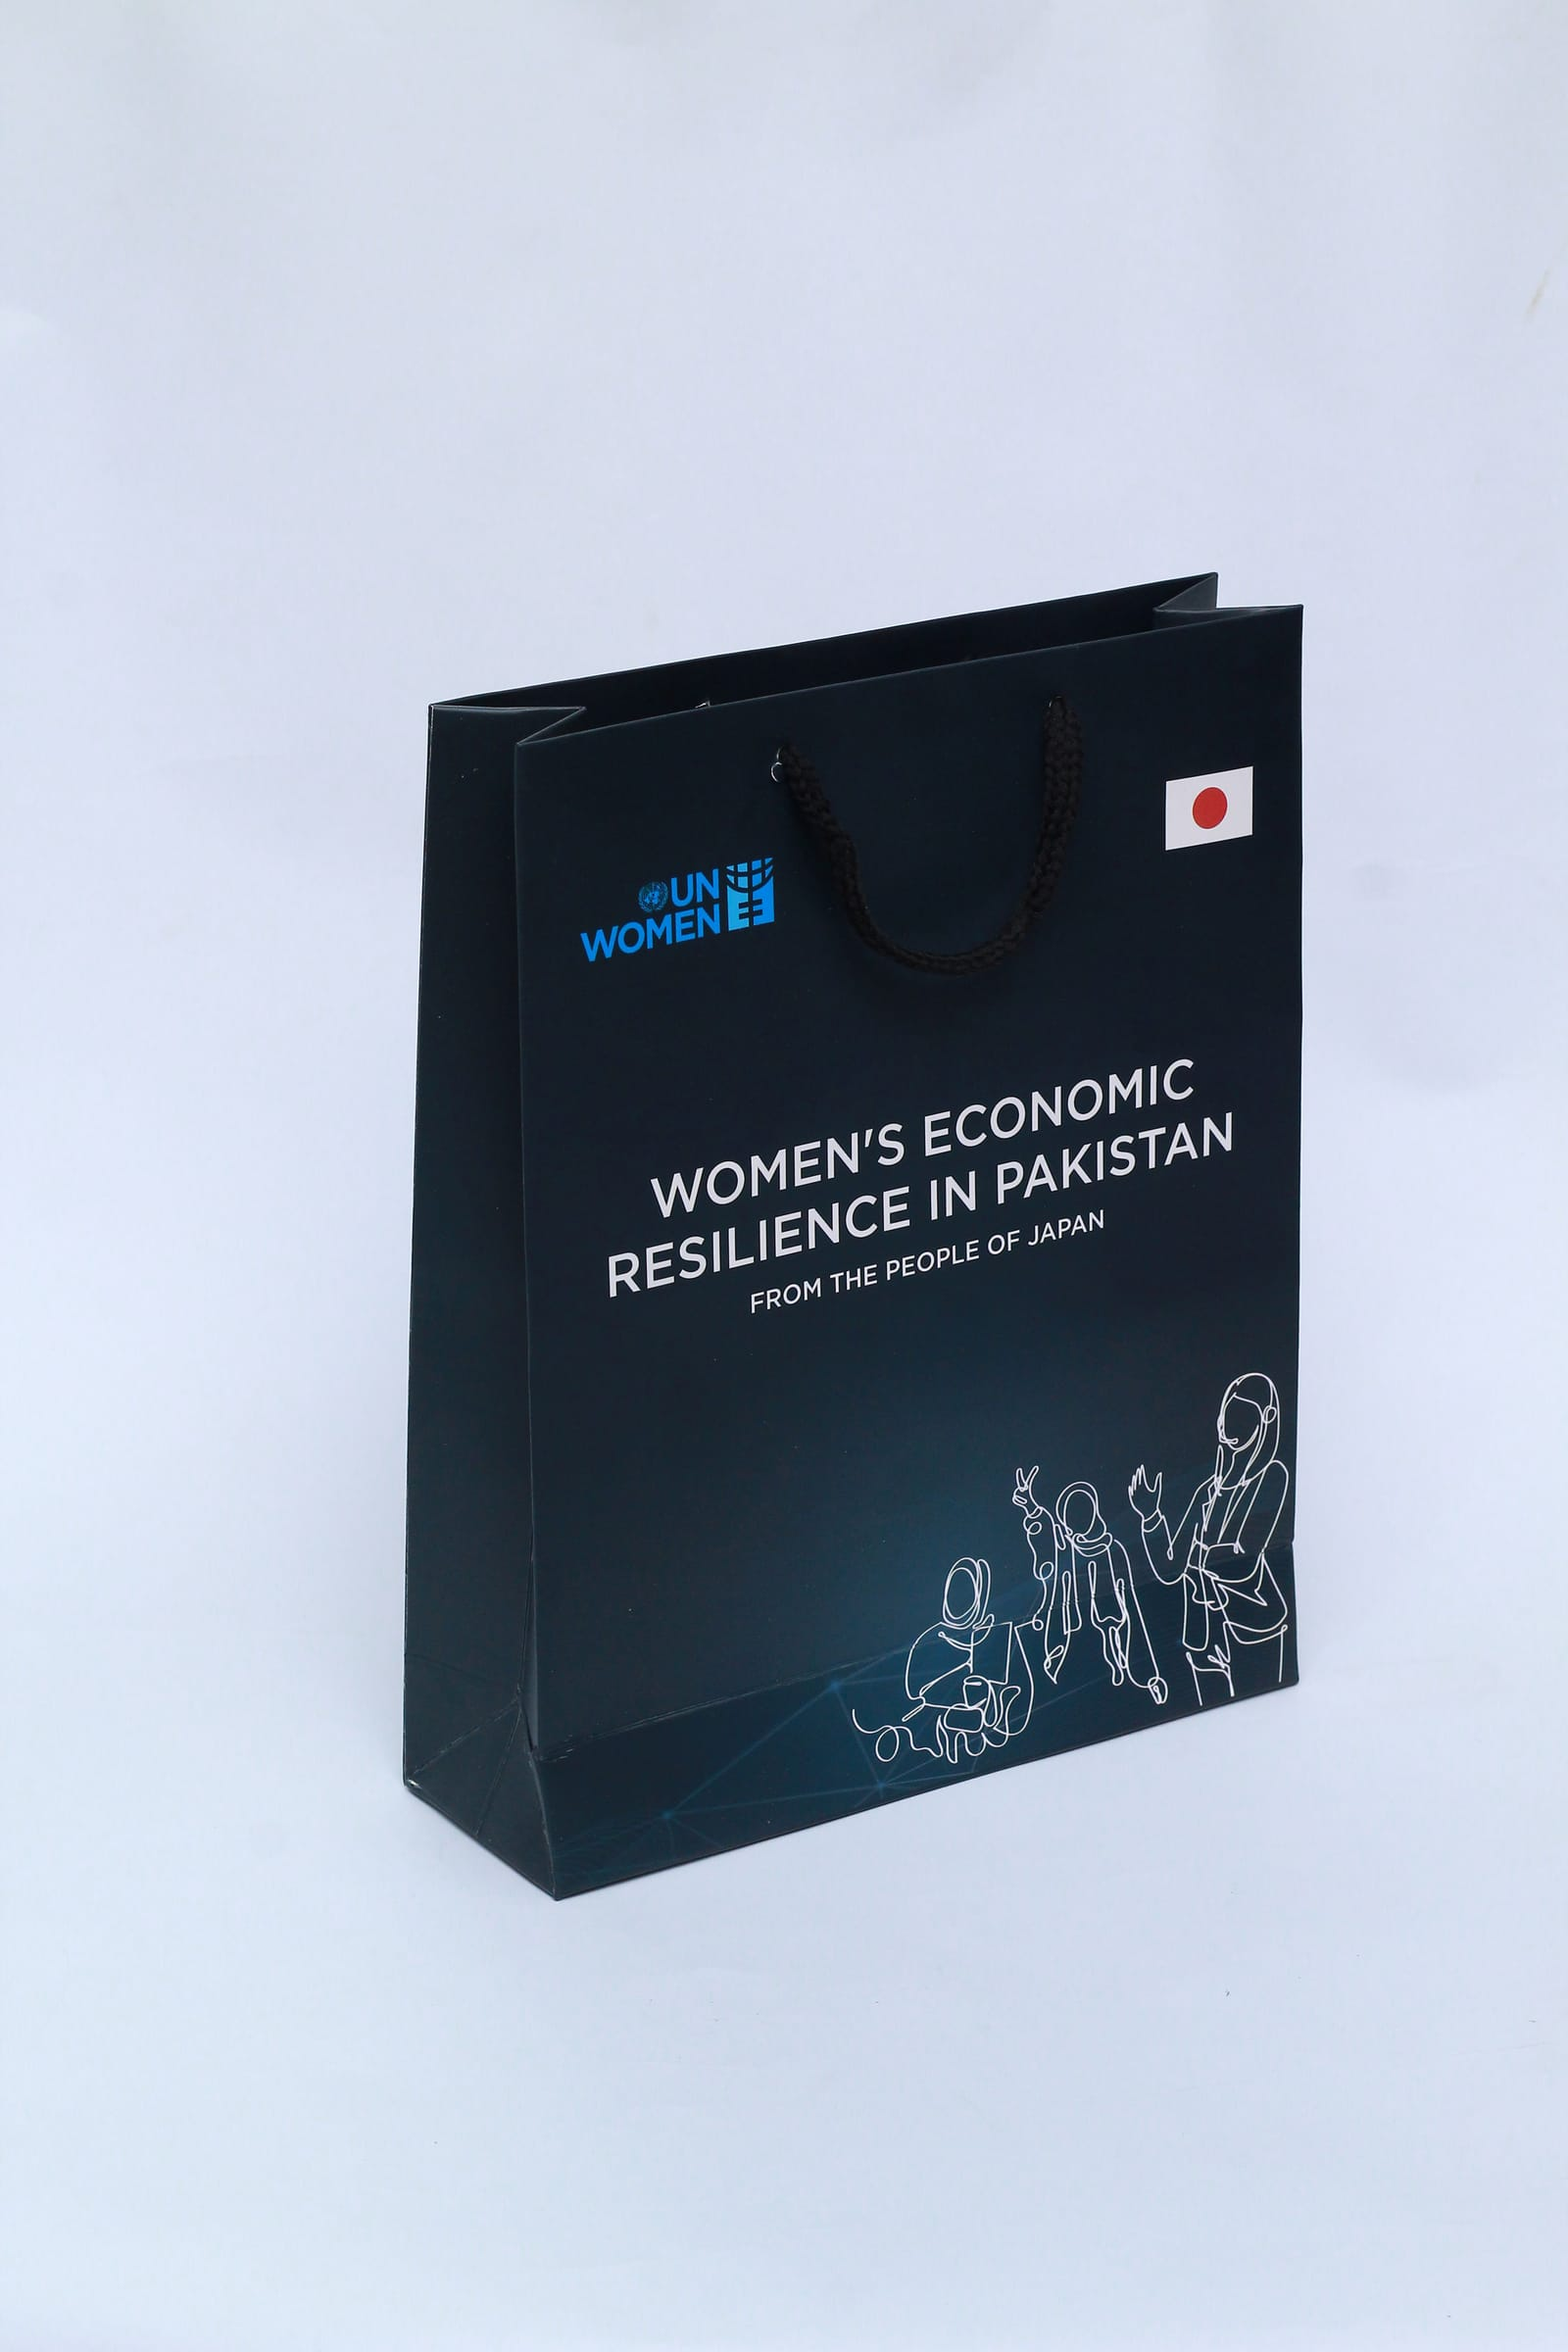
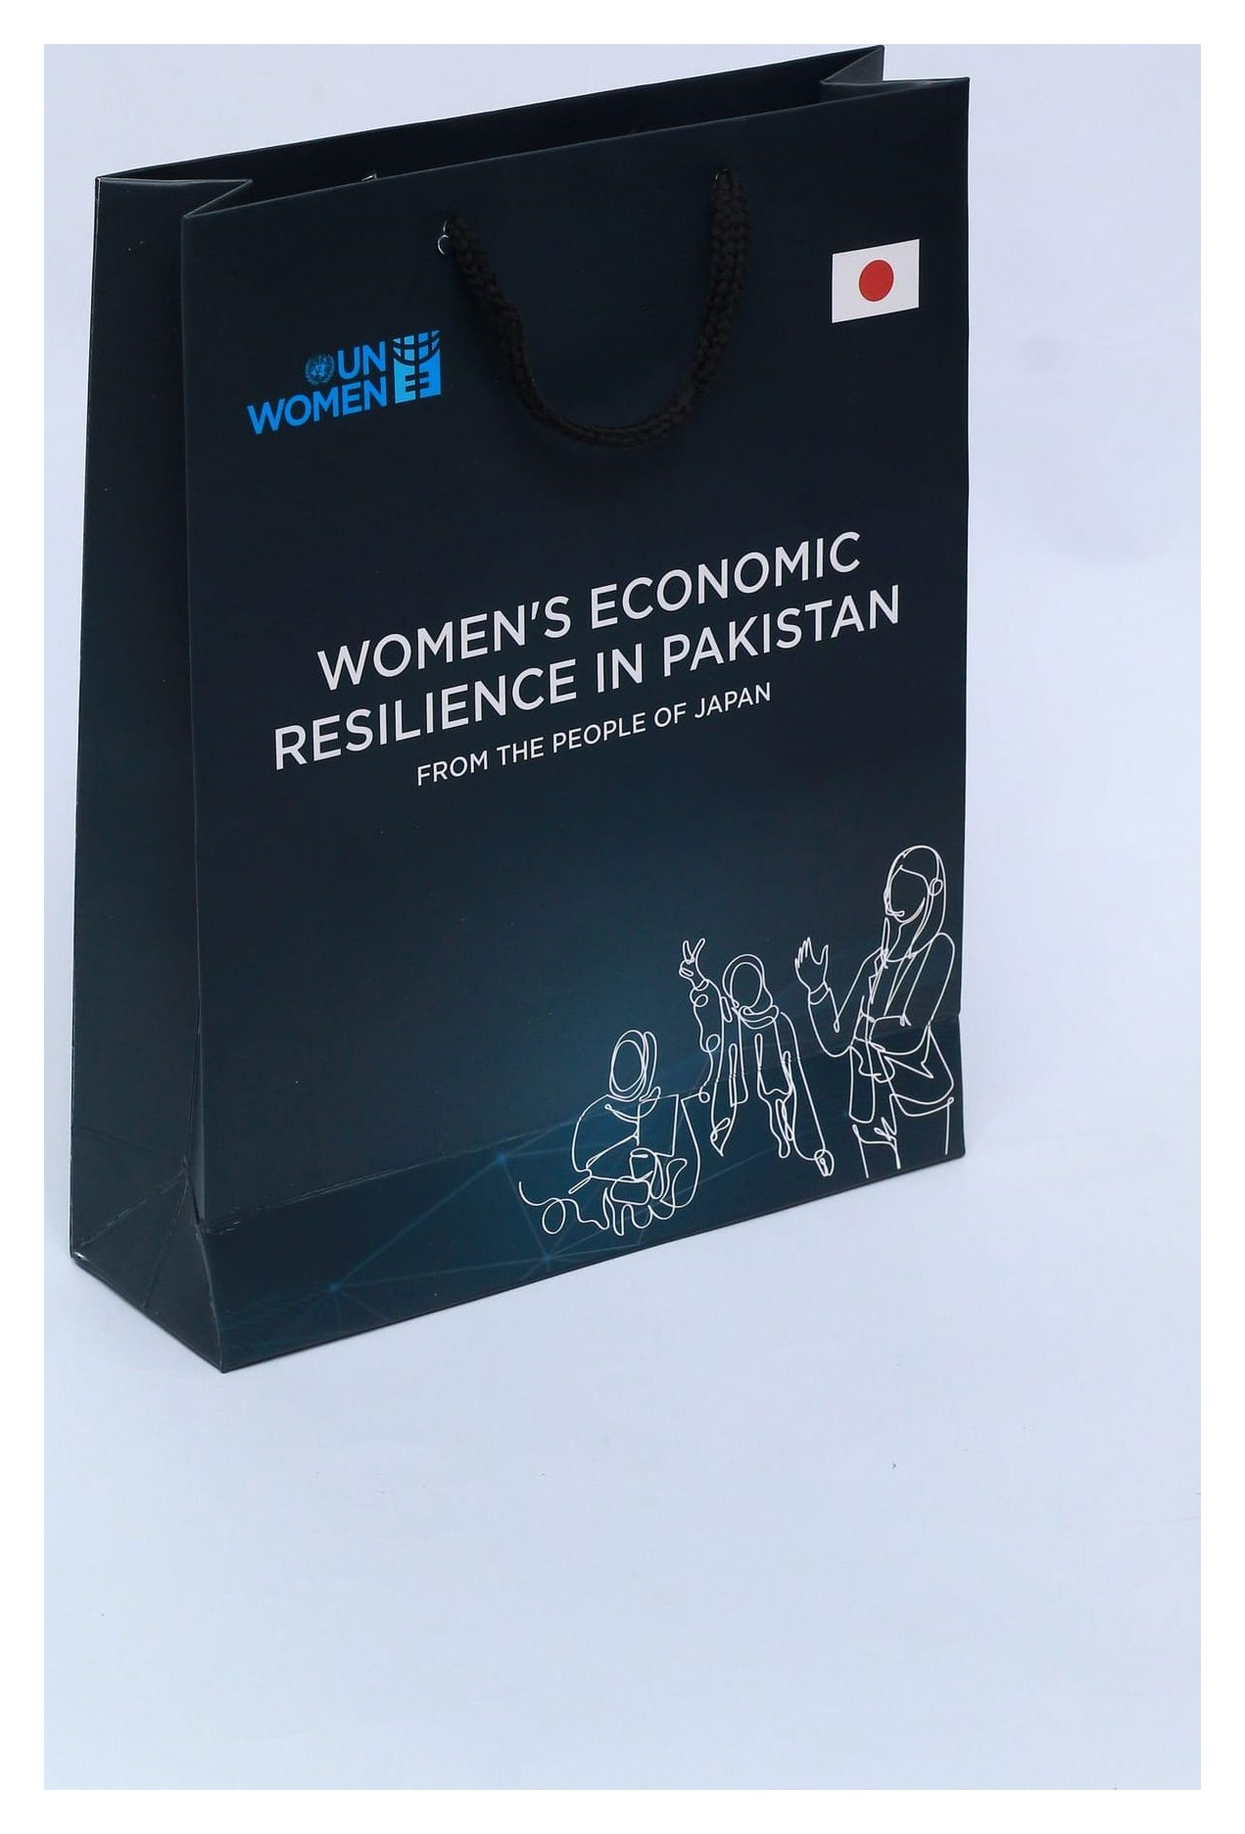
Rebrand bags to 'Custom Bags' and refresh product/industry visuals
- Rename 'Custom Paper Bags' to 'Custom Bags' across the site (name, headings, SEO, blog), keeping the /custom-paper-bags slug
- Change homepage hero headline to 'Custom Packaging'
- Redesign industry tiles as colorful animated circular tiles (new industry-tile.tsx)
- Add fit (cover/contain) option to ProductGallery
- Show the full bag image on the bags detail page; crop bag product photos to fill their frame

diff --git a/src/components/industry-tile.tsx b/src/components/industry-tile.tsx
@@ -1,0 +1,111 @@
+"use client";
+
+import Link from "next/link";
+import Image from "next/image";
+import { motion } from "framer-motion";
+import {
+  ArrowRight,
+  Sparkles,
+  Cookie,
+  Shirt,
+  ShoppingBag,
+  Gift,
+  Store,
+  type LucideIcon,
+} from "lucide-react";
+import type { IndustryPage } from "@/content/types";
+
+const ease = [0.22, 1, 0.36, 1] as const;
+
+// A distinct sign/icon per industry, shown on the colored badge.
+const iconBySlug: Record<string, LucideIcon> = {
+  "custom-cosmetic-packaging": Sparkles,
+  "custom-food-packaging": Cookie,
+  "custom-fashion-packaging": Shirt,
+  "custom-ecommerce-packaging": ShoppingBag,
+  "custom-gift-packaging": Gift,
+  "custom-retail-packaging": Store,
+};
+
+export function IndustryTile({ industry }: { industry: IndustryPage }) {
+  const Icon = iconBySlug[industry.slug] ?? Sparkles;
+  const accent = industry.accent;
+
+  return (
+    <motion.div
+      className="h-full"
+      initial="rest"
+      animate="rest"
+      whileHover="hover"
+    >
+      <Link
+        href={`/${industry.slug}`}
+        className="group relative flex h-full flex-col items-center overflow-hidden rounded-3xl border bg-card p-7 text-center shadow-sm transition-shadow duration-300 hover:shadow-xl hover:shadow-black/5"
+        style={{
+          background: `radial-gradient(135% 90% at 50% 0%, ${accent}1a 0%, transparent 62%)`,
+        }}
+      >
+        {/* soft colored glow behind the circle */}
+        <span
+          aria-hidden
+          className="pointer-events-none absolute -top-12 left-1/2 h-44 w-44 -translate-x-1/2 rounded-full opacity-35 blur-3xl transition-opacity duration-300 group-hover:opacity-60"
+          style={{ backgroundColor: accent }}
+        />
+
+        {/* circular image + rotating color ring + sign badge */}
+        <div className="relative h-28 w-28">
+          {/* continuously rotating colorful ring */}
+          <motion.span
+            aria-hidden
+            className="absolute inset-0 rounded-full"
+            style={{
+              background: `conic-gradient(from 0deg, ${accent}, ${accent}00 45%, ${accent}00 55%, ${accent})`,
+            }}
+            animate={{ rotate: 360 }}
+            transition={{ duration: 14, repeat: Infinity, ease: "linear" }}
+          />
+
+          {/* image disc */}
+          <motion.div
+            className="absolute inset-[5px] overflow-hidden rounded-full border-4 border-card bg-secondary"
+            variants={{ rest: { scale: 1 }, hover: { scale: 1.07 } }}
+            transition={{ duration: 0.4, ease }}
+          >
+            <Image
+              src={industry.heroImage}
+              alt={industry.label}
+              fill
+              sizes="120px"
+              className="object-cover transition-transform duration-500 group-hover:scale-110"
+            />
+          </motion.div>
+
+          {/* floating sign/icon badge */}
+          <motion.span
+            className="absolute -bottom-1 -right-1 grid h-11 w-11 place-items-center rounded-full text-white shadow-lg ring-4 ring-card"
+            style={{ backgroundColor: accent }}
+            variants={{
+              rest: { y: 0, scale: 1, rotate: 0 },
+              hover: { y: -3, scale: 1.15, rotate: -8 },
+            }}
+            transition={{ duration: 0.35, ease }}
+          >
+            <Icon className="h-5 w-5" />
+          </motion.span>
+        </div>
+
+        <h3 className="mt-6 font-[family-name:var(--font-heading)] text-lg font-bold">
+          {industry.label}
+        </h3>
+        <p className="mt-2 flex-1 text-sm text-muted-foreground">{industry.audience}</p>
+
+        <span
+          className="mt-5 inline-flex items-center gap-1 text-sm font-semibold transition-all duration-300 group-hover:gap-2"
+          style={{ color: accent }}
+        >
+          Explore <ArrowRight className="h-4 w-4" />
+        </span>
+      </Link>
+    </motion.div>
+  );
+}

diff --git a/src/components/cards.tsx b/src/components/cards.tsx
@@ -3,7 +3,7 @@ import { ArrowRight } from "lucide-react";
 import { Badge } from "@/components/ui/badge";
 import { ProductGallery } from "@/components/product-gallery";
 import { formatPKR } from "@/lib/format";
-import type { PackagingType, IndustryPage, Project } from "@/content/types";
+import type { PackagingType, Project } from "@/content/types";
 
 export function PackagingTypeCard({ type }: { type: PackagingType }) {
   const gallery =
@@ -17,7 +17,9 @@ export function PackagingTypeCard({ type }: { type: PackagingType }) {
       <ProductGallery
         images={gallery}
         alt={type.name}
-        className="rounded-none border-0"
+        fit="cover"
+        aspect="aspect-[4/3]"
+        className="rounded-none border-0 bg-white"
         sizes="(max-width: 768px) 100vw, 33vw"
       />
       <div className="flex flex-1 flex-col p-5">
@@ -40,33 +42,8 @@ export function PackagingTypeCard({ type }: { type: PackagingType }) {
   );
 }
 
-export function IndustryTile({ industry }: { industry: IndustryPage }) {
-  return (
-    <Link
-      href={`/${industry.slug}`}
-      className="group relative flex h-full flex-col overflow-hidden rounded-2xl border bg-card p-6 transition hover:-translate-y-1 hover:shadow-lg hover:shadow-black/5"
-    >
-      <span
-        className="absolute inset-x-0 top-0 h-1.5"
-        style={{ backgroundColor: industry.accent }}
-        aria-hidden
-      />
-      <span
-        className="grid h-11 w-11 place-items-center rounded-xl text-sm font-bold text-white"
-        style={{ backgroundColor: industry.accent }}
-      >
-        {industry.shortLabel.slice(0, 2)}
-      </span>
-      <h3 className="mt-4 font-[family-name:var(--font-heading)] text-lg font-bold">
-        {industry.label}
-      </h3>
-      <p className="mt-2 flex-1 text-sm text-muted-foreground">{industry.audience}</p>
-      <span className="mt-4 inline-flex items-center gap-1 text-sm font-semibold group-hover:gap-2">
-        Explore <ArrowRight className="h-4 w-4 transition-all" />
-      </span>
-    </Link>
-  );
-}
+// IndustryTile now lives in its own client component (animated circular design).
+export { IndustryTile } from "@/components/industry-tile";
 
 export function ProjectCard({ project }: { project: Project }) {
   return (

diff --git a/src/content/packaging-types.ts b/src/content/packaging-types.ts
@@ -64,10 +64,10 @@ export const packagingTypes: PackagingType[] = [
   },
   {
     slug: "custom-paper-bags",
-    name: "Custom Paper Bags",
-    shortName: "Paper Bags",
+    name: "Custom Bags",
+    shortName: "Bags",
     tagline: "Branded shopping & gift bags customers carry home",
-    heroHeadline: "Custom Paper Bags for Retail & Gifting",
+    heroHeadline: "Custom Bags for Retail & Gifting",
     heroSub:
       "Branded paper bags for shops, boutiques, events and gifting — printed with your logo and brand colours, with handle, size and finish options that match your products.",
     useCases: ["Retail shopping bags", "Boutique & fashion", "Gift bags", "Event giveaways", "Takeaway / food", "Corporate gifting"],
@@ -96,10 +96,10 @@ export const packagingTypes: PackagingType[] = [
       { question: "Minimum order for paper bags?", answer: "Typically 300–500 bags for custom-printed orders." },
     ],
     seo: {
-      seoTitle: "Custom Paper Bags Pakistan — Branded Shopping & Gift Bags",
+      seoTitle: "Custom Bags Pakistan — Branded Shopping & Gift Bags",
       metaDescription:
         "Custom printed paper bags in Pakistan for retail, fashion, food and gifting. Branded shopping bags with handle, size and finish options. Request a quote.",
-      keywords: ["custom paper bags Pakistan", "branded paper bags", "shopping bags", "printed paper bags"],
+      keywords: ["custom bags Pakistan", "branded paper bags", "shopping bags", "printed paper bags"],
     },
   },
   {

diff --git a/src/components/landing/packaging-type-template.tsx b/src/components/landing/packaging-type-template.tsx
@@ -13,6 +13,9 @@ import type { PackagingType } from "@/content/types";
 
 export function PackagingTypeTemplate({ type }: { type: PackagingType }) {
   const gallery = type.gallery && type.gallery.length ? type.gallery : type.image ? [type.image] : [];
+  // Bags are a tall/portrait product — show the whole image on its detail page
+  // instead of cropping it. Other product pages keep the full-bleed crop.
+  const isBags = type.slug === "custom-paper-bags";
   return (
     <>
       <BreadcrumbJsonLd
@@ -55,7 +58,9 @@ export function PackagingTypeTemplate({ type }: { type: PackagingType }) {
             images={gallery}
             alt={`${type.name} by Pack4U`}
             priority
-            aspect="aspect-[4/3]"
+            aspect={isBags ? "aspect-[1271/1872]" : "aspect-[4/3]"}
+            fit={isBags ? "contain" : "cover"}
+            className={isBags ? "bg-white" : undefined}
             sizes="(max-width: 1024px) 100vw, 50vw"
           />
         </div>

diff --git a/src/content/blog.ts b/src/content/blog.ts
@@ -245,12 +245,12 @@ Full-colour printing, foil stamping, and matte or gloss lamination all change th
 
 Match your bag to your tags, tissue and boxes so the whole retail experience feels like one brand.
 
-[See custom paper bags](/custom-paper-bags) or [request a quote](/get-quote).`,
+[See custom bags](/custom-paper-bags) or [request a quote](/get-quote).`,
     seo: {
       seoTitle: "Paper Bag Customization Options for Retail Brands",
       metaDescription:
         "Handles, paper, printing and finishes for custom retail paper bags. Turn a plain bag into branded packaging customers keep. From Pack4U.",
-      keywords: ["custom paper bags", "branded paper bags", "retail packaging Pakistan"],
+      keywords: ["custom bags", "branded paper bags", "retail packaging Pakistan"],
     },
   },
   {

diff --git a/src/components/product-gallery.tsx b/src/components/product-gallery.tsx
@@ -15,6 +15,7 @@ export function ProductGallery({
   aspect = "aspect-[4/3]",
   sizes = "(max-width: 768px) 100vw, 33vw",
   priority = false,
+  fit = "cover",
   className,
 }: {
   images: string[];
@@ -22,6 +23,7 @@ export function ProductGallery({
   aspect?: string;
   sizes?: string;
   priority?: boolean;
+  fit?: "cover" | "contain";
   className?: string;
 }) {
   const trackRef = useRef<HTMLDivElement>(null);
@@ -70,7 +72,7 @@ export function ProductGallery({
               alt={`${alt} — image ${i + 1} of ${valid.length}`}
               fill
               priority={priority && i === 0}
-              className="object-cover"
+              className={fit === "contain" ? "object-contain" : "object-cover"}
               sizes={sizes}
             />
           </div>

diff --git a/src/app/page.tsx b/src/app/page.tsx
@@ -56,7 +56,7 @@ export default function HomePage() {
               </span>
             </AnimatedLine>
             <h1 className="mt-6 font-[family-name:var(--font-heading)] text-4xl font-bold leading-[1.07] tracking-tight sm:text-5xl lg:text-6xl">
-              <AnimatedHeadline text="Custom Paper Packaging" delay={0.2} />
+              <AnimatedHeadline text="Custom Packaging" delay={0.2} />
               <br />
               <AnimatedHeadline text="for Product" delay={0.5} />{" "}
               <AnimatedHeadline text="Brands" delay={0.7} className="text-brand" />

diff --git a/src/app/layout.tsx b/src/app/layout.tsx
@@ -33,7 +33,7 @@ export const metadata: Metadata = {
   keywords: [
     "custom packaging Pakistan",
     "custom boxes Pakistan",
-    "custom paper bags Pakistan",
+    "custom bags Pakistan",
     "product packaging Pakistan",
     "branded packaging Pakistan",
     "food packaging Pakistan",
